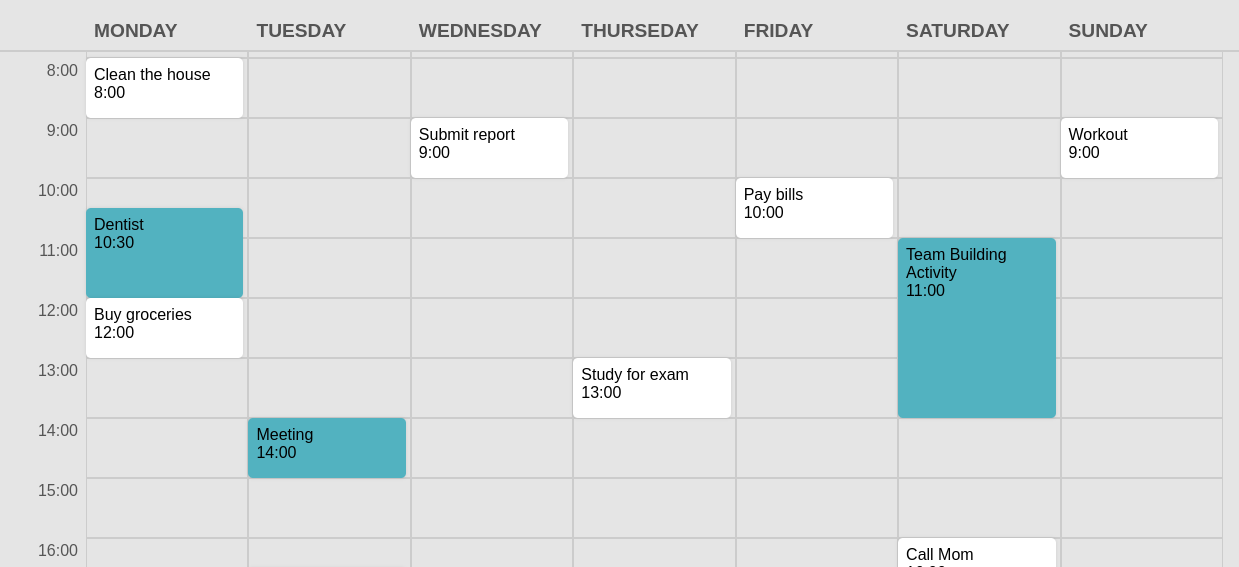
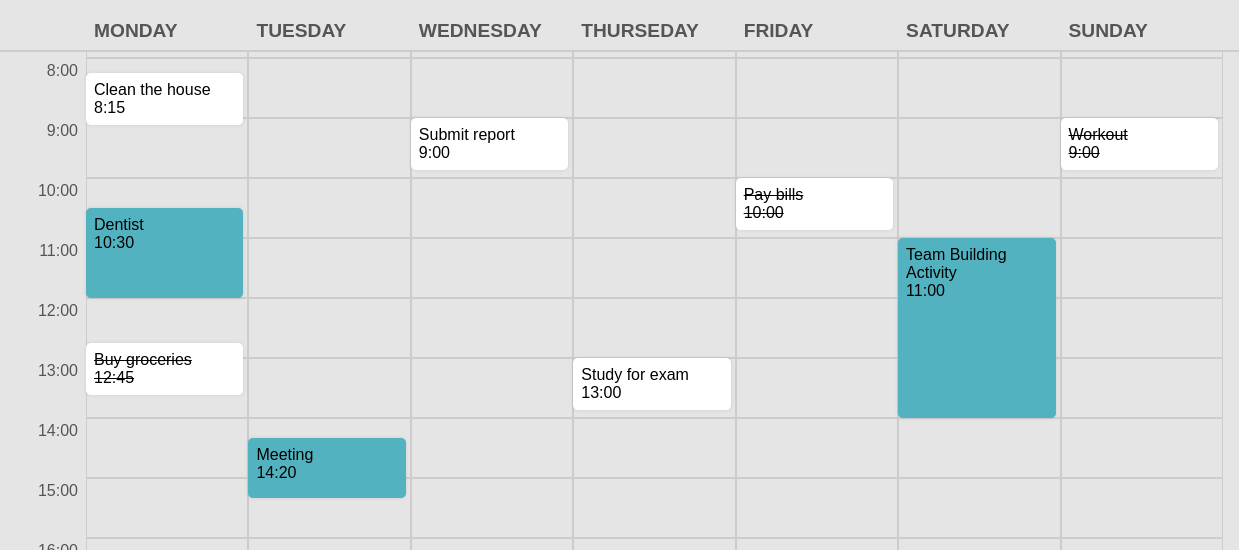
Doplnění zadání příkladu

diff --git a/lessons/rozlisovani/cviceni/seznameni.md b/lessons/rozlisovani/cviceni/seznameni.md
@@ -5,9 +5,9 @@ demand: 2
 
 Nejprve založíme a rozchodíme výchozí projekt pro aplikaci kalendář. Postupujte podle následujících kroků:
 
-1. Vytvořte si rezpozitář ze připravené šablony. Naklonujte si jej k sobě na disk a otevřete v editoru VS Code.
+1. Vytvořte si rezpozitář z [připravené šablony](https://github.com/kodim-vyuka/cviceni-kalendar-zadani). Naklonujte si jej k sobě na disk a otevřete v editoru VS Code.
 1. V terminálu spusťte příkaz `tsc -w` pro spuštění překladu TypeScriptu v režimu _watch_. Jak ut jistě víte, tento příkaz sleduje změny ve vašem kódu a automaticky je překládá do JavaScriptu.
 1. Spusťte základ aplikace pomocí příkazu `npx serve`.
-1. Prohlédněte si strukturu HTML a CSS. Abychom dokázali zobrazovat jednotlivé položky kalendáře nad mřížkou, používáme trošku CSS magie. Třída `day-column` je zařízená tak, že všechny elementy v ní se zobrazují přes sebe. Tímto způsobem můžeme posouvat jednotlivé položky uvnitř dne tak, že jim nastavíme styl `margin-top`.
+1. Prohlédněte si strukturu HTML, CSS i TypeScriptu. Abychom dokázali zobrazovat jednotlivé položky kalendáře nad mřížkou, používáme trošku CSS magie. Třída `day-column` je zařízená tak, že všechny elementy v ní se zobrazují přes sebe. Tímto způsobem můžeme posouvat jednotlivé položky uvnitř dne tak, že jim nastavíme styl `margin-top`. Zároveň máme v TypeScriptu funkci `renderGrid`, která vykreslí mřížku kalendáře.
 1. Výška jedné hodiny v mřížce je chytře nastavena na 60 pixelů, takže každý pixel odpovídá jedné minutě. Takto můžeme jednoduše spočítat, kde se má každá položka zobrazit. Zkuste přímo v souboru `index.html` vytvořit nějakou položku v kalendaří například na čase 8:15.
 

diff --git a/lessons/rozlisovani/cviceni/zobrazeni.md b/lessons/rozlisovani/cviceni/zobrazeni.md
@@ -35,6 +35,6 @@ Ať už si zvolíte jakýkoliv postup, postupujte dle těchto kroků:
 1. Vytvořte funkci `renderCalendar`, která jako parametr obdrží pole položek kalendáře a zobrazí je na stránce. Zatím se soustřeďte pouze na to, aby se položky zobrazily ve správném dnu a čase.
 1. Zaříďte, aby se úkoly zobrazovaly bílou barvou a události modrou.
 1. Událost by měla mít výšku dle svého trvání, úkol by měl být tak vysoký, aby se do něj vešel text.
-1. Úkoly, které ještě nejsou splněny, zobrazte šedou barvou
+1. Úkoly, které ještě nejsou splněny, zobrazte přeškrtnuté pomocí třídy `task-done`.
 
 Timto byste měli mít aplikaci hotovou. Pokud vám tento projekt přišel jako procházka růžovým sadem, a toužíte po větší výzvě, můžete se pustit do bonusových úkolů.
